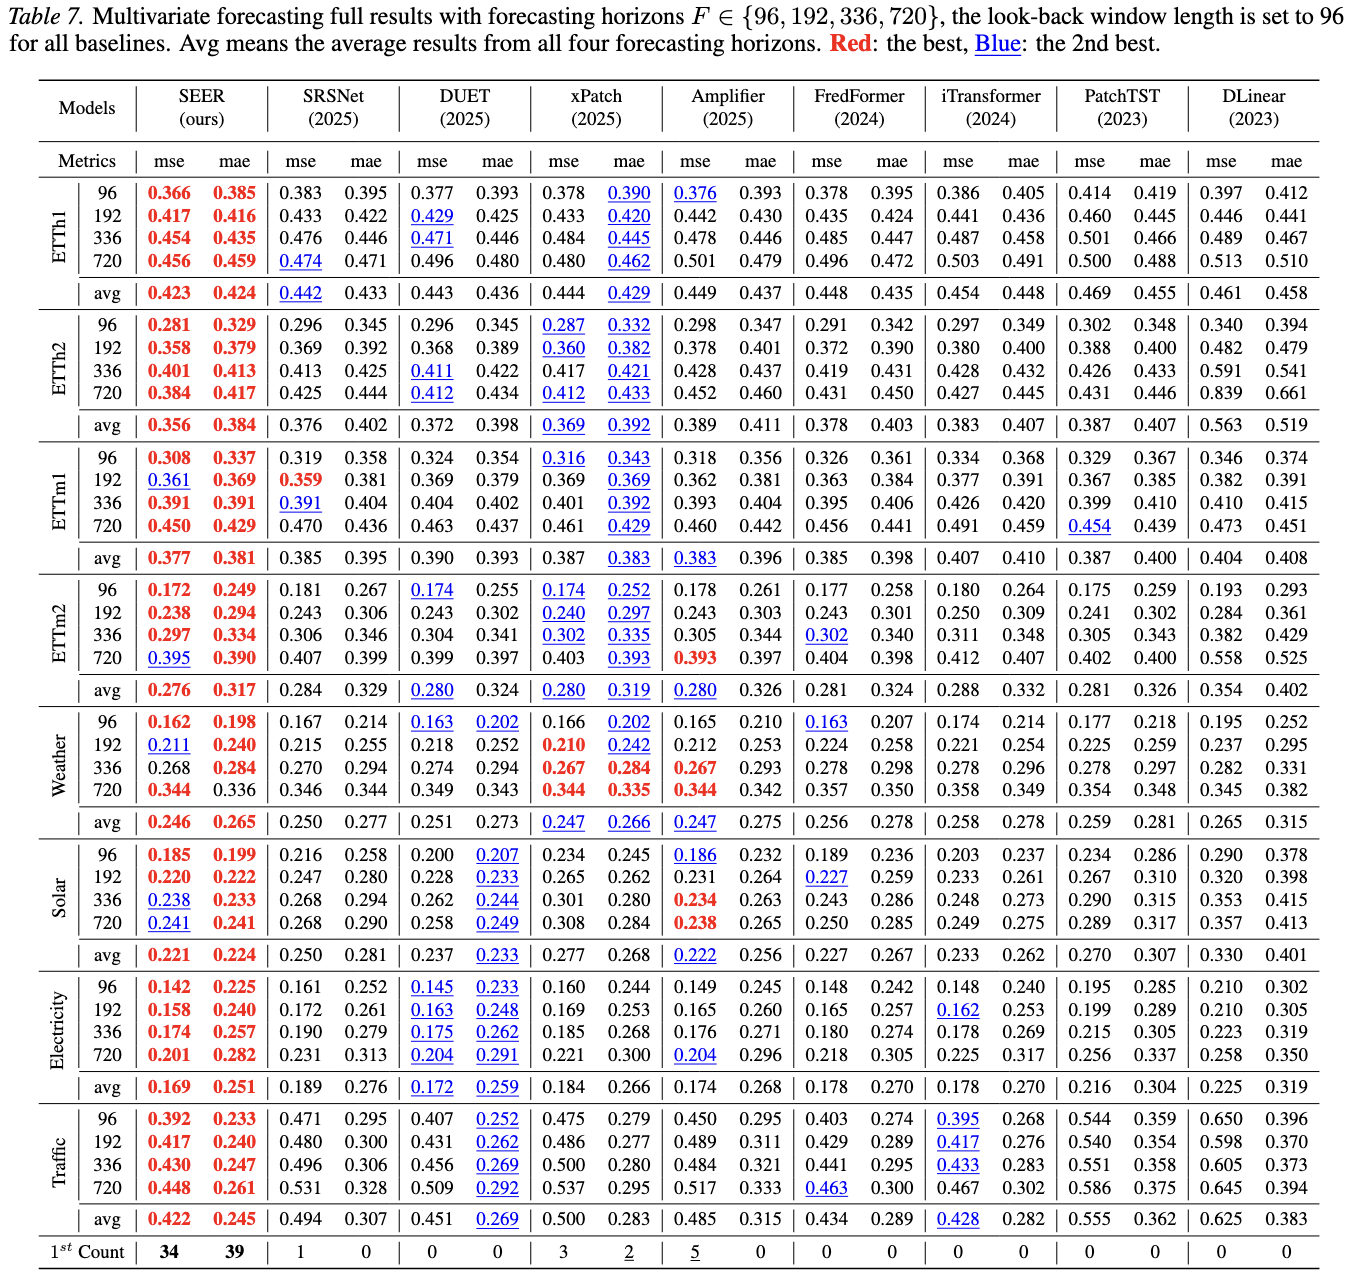
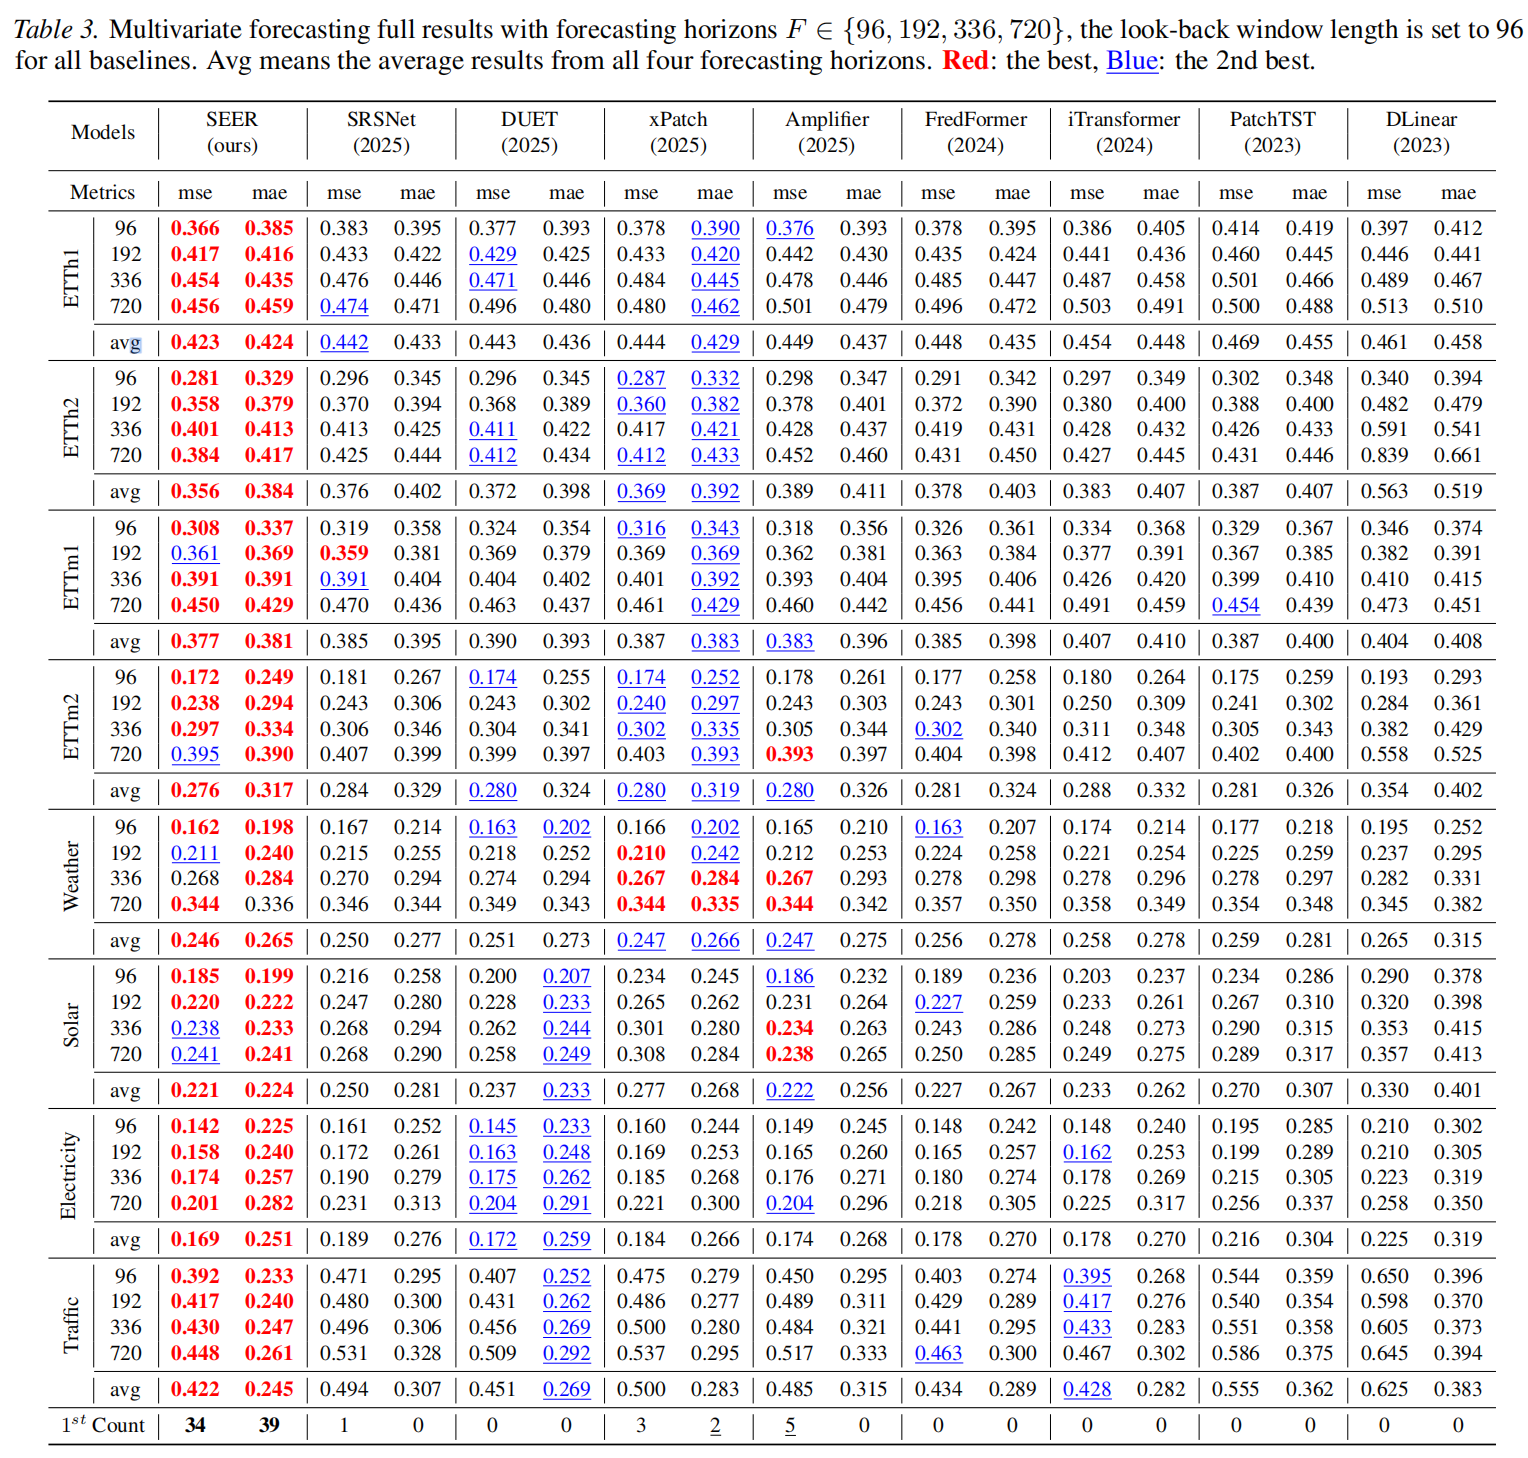
modify readme

diff --git a/README.md b/README.md
@@ -1,8 +1,8 @@
 # SEER: Transformer-based Robust Time Series Forecasting via Automated Patch Enhancement and Replacement
 
-[![Python](https://img.shields.io/badge/Python-3.8%2B-blue)](https://www.python.org/)  [![PyTorch](https://img.shields.io/badge/PyTorch-2.4.1-blue)](https://pytorch.org/)
+ [![ICML](https://img.shields.io/badge/ICML'26-SEER-orange)](https://arxiv.org/pdf/2602.00589)  [![Python](https://img.shields.io/badge/Python-3.8%2B-blue)](https://www.python.org/)  [![PyTorch](https://img.shields.io/badge/PyTorch-2.4.1-blue)](https://pytorch.org/)
 
-This code is the official PyTorch implementation of our paper SEER: Transformer-based Robust Time Series Forecasting via Automated Patch Enhancement and Replacement.
+This code is the official PyTorch implementation of our ICML'26 paper **SEER: Transformer-based Robust Time Series Forecasting via Automated Patch Enhancement and Replacement**.
 
 <div align="center">
 <img alt="Logo" src="docs/figures/overview.png" width="100%"/>
@@ -38,3 +38,29 @@ sh ./scripts/SEER_script/ETTh1/SEER.sh
 <div align="center">
 <img alt="Logo" src="docs/figures/main-results.png" width="100%"/>
 </div>
+
+
+## Citation
+
+If you find this repo useful, please cite our paper.
+
+```
+
+@inproceedings{qiu2026seer,
+  title        =   {SEER: Transformer-based Robust Time Series Forecasting via Automated Patch Enhancement and Replacement},
+  author       =   {Qiu, Xiangfei and Liu, Xvyuan and Shen, Tianen and Wu, Xingjian and Cheng, Hanyin and Yang, Bin and Hu, Jilin},
+  booktitle    =   {ICML},
+  year         =   {2026}
+}
+```
+
+
+
+## Contact
+
+If you have any questions or suggestions, feel free to contact:
+
+- [Xiangfei Qiu](https://qiu69.github.io/) (xfqiu@stu.ecnu.edu.cn)
+
+
+Or describe it in Issues.
